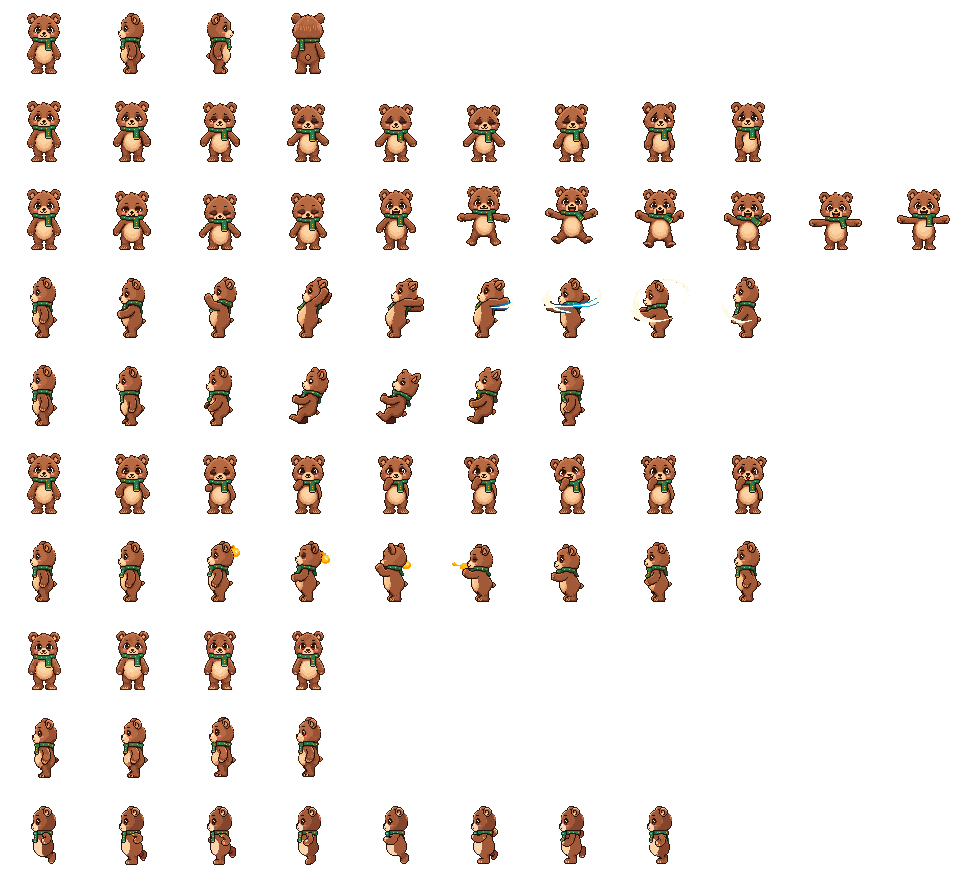
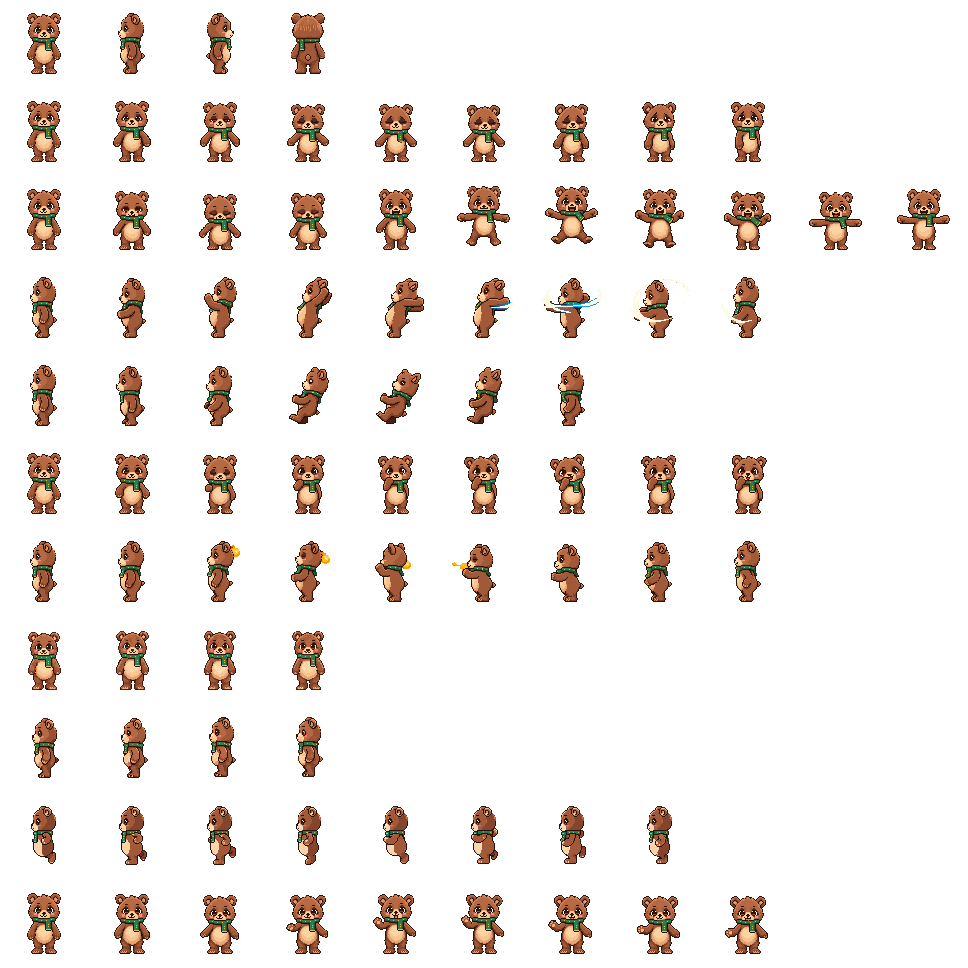
feat(design): PixelLab teaching animation and mouth shapes for the talking bear

diff --git a/mobile/scripts/tutor-sprites.ts b/mobile/scripts/tutor-sprites.ts
@@ -1,0 +1,127 @@
+/**
+ * Баавгайтай ярилцах дэлгэцийн (tutor) баавгай: урагшаа харсан frame-ууд (bear_tutor.png, grid) + амны хэлбэр
+ * (bear_mouth.png: хагас, нээлттэй) + metadata (mobile/src/lib/pixelBear/bear-tutor.json).
+ *
+ * Баавгай: PixelLab (docs/design/pixel-bear/pixellab/bear.png): idle, think (сонсох), teach (багш шиг сарвуугаа
+ * өргөж тайлбарлана). teach-ийн бүх frame-д амыг хааж (PixelLab зарим frame-д амыг нээсэн байдаг), frame бүрт амны
+ * байрлалыг JSON-д бичнэ: апп дуу тоглуулж байх үед түүний чанга байдлаар хагас/нээлттэй амыг дээр нь давхарлана.
+ *
+ * Ажиллуулах:  npm run sprites:tutor && npm run sprites   (mobile/)
+ * Шалгах:      node scripts/tutor-sprites.ts --preview <dir>
+ */
+import { writeFileSync } from 'node:fs';
+import { blank, type Img, writeApng, writePng } from './png.ts';
+import { at, bbox, clone, contact, crop, type Frame, hex, type P, pixellab, SPRITES, scale, tagOf, toSheet, trim } from './sprite-kit.ts';
+
+const META = new URL('../src/lib/pixelBear/bear-tutor.json', import.meta.url);
+const COLS = 7;
+
+const bear = pixellab('bear');
+const teach = bear.frames('teach', 'south');
+const ref = teach[0];
+
+// teach-ийн эхний (хаалттай амтай) frame-ийн нүүр: нүд (тааруулах хэсэг), ам (хуулах хэсэг), амны төв
+const EYES = [33, 24, 56, 32] as const; // x0, y0, x1, y1
+const MUZZLE = [39, 34, 48, 39] as const; // хамрын доод захаас хүзүүний зураас хүртэл
+const MOUTH: P = [43, 35]; // амны зураасны дээд төв
+
+/** Толгой бага зэрэг дохиж хөдөлдөг: нүдний хэсгийг `ref`-тэй хамгийн ойр тааруулах шилжилт */
+function faceOffset(img: Img): P {
+  let best: P = [0, 0];
+  let bestCost = Infinity;
+  for (let dy = -3; dy <= 3; dy++)
+    for (let dx = -3; dx <= 3; dx++) {
+      let cost = 0;
+      for (let y = EYES[1]; y < EYES[3]; y++)
+        for (let x = EYES[0]; x < EYES[2]; x++) {
+          const i = at(ref, x, y);
+          const j = at(img, x + dx, y + dy);
+          for (let c = 0; c < 4; c++) cost += Math.abs(ref.d[i + c] - img.d[j + c]);
+        }
+      if (cost < bestCost) [best, bestCost] = [[dx, dy], cost];
+    }
+  return best;
+}
+
+/** `ref`-ийн хаалттай амыг нүүрний шилжилтээр нь буулгана */
+function closeMouth(img: Img, [dx, dy]: P): Img {
+  const o = clone(img);
+  const patch = crop(ref, MUZZLE[0], MUZZLE[1], MUZZLE[2] - MUZZLE[0], MUZZLE[3] - MUZZLE[1]);
+  for (let y = 0; y < patch.h; y++)
+    for (let x = 0; x < patch.w; x++) o.d.set(patch.d.subarray(at(patch, x, y), at(patch, x, y) + 4), at(o, MUZZLE[0] + dx + x, MUZZLE[1] + dy + y));
+  return o;
+}
+
+const all: (Frame & { mouth?: P })[] = [];
+bear.frames('idle', 'south').forEach((img, i) => all.push({ name: `idle${i}`, duration: 220, img }));
+bear.frames('think', 'south').forEach((img, i) => all.push({ name: `think${i}`, duration: 150, img })); // сонсох
+teach.forEach((img, i) => {
+  const off = faceOffset(img);
+  all.push({ name: `teach${i}`, duration: 150, img: closeMouth(img, off), mouth: [MOUTH[0] + off[0], MOUTH[1] + off[1]] });
+});
+const { frames, dx, dy } = trim(all);
+const [bx0, , bx1, by1] = bbox([bear.rotation('south')]);
+
+// амны хэлбэр (5×4, амны зураасны дээд төвөөс): хагас нээлттэй, нээлттэй (хэл харагдана)
+const SHAPES = [
+  ['.ooo.', 'orrro', '.ooo.', '.....'],
+  ['.ooo.', 'orrro', 'ortto', '.ooo.'],
+];
+const INK = { o: hex('#2a140a'), r: hex('#6b1f1f'), t: hex('#fc7b6a') } as const;
+const mouth = blank(5 * SHAPES.length, 4);
+SHAPES.forEach((rows, k) =>
+  rows.forEach((row, y) =>
+    [...row].forEach((ch, x) => {
+      if (ch !== '.') mouth.d.set([...INK[ch as keyof typeof INK], 255], at(mouth, k * 5 + x, y));
+    }),
+  ),
+);
+const MOUTH_ORIGIN = 2; // хэлбэрийн төвийн багана
+
+const tag = tagOf(frames);
+const tags = {
+  idle: tag('idle0', 'idle3', 'pingpong'),
+  listen: tag('think0', 'think8', 'pingpong'),
+  teachIn: tag('teach0', 'teach2'),
+  teach: tag('teach3', 'teach8', 'pingpong'),
+};
+const sheet = toSheet(frames, COLS);
+
+const preview = process.argv.indexOf('--preview');
+if (preview < 0) {
+  writePng(new URL('bear_tutor.png', SPRITES), sheet);
+  writePng(new URL('bear_mouth.png', SPRITES), mouth);
+  const meta = {
+    sheet: 'bear_tutor',
+    frameSize: { w: frames[0].img.w, h: frames[0].img.h },
+    columns: COLS,
+    feet: by1 - dy,
+    pivot: (bx0 + bx1) / 2 - dx,
+    mouth: { w: 5, h: 4, origin: MOUTH_ORIGIN, shapes: SHAPES.length },
+    frames: all.map(({ name, duration, mouth: m }) => ({ name, duration, ...(m ? { mouth: [m[0] - dx, m[1] - dy] } : {}) })),
+    tags,
+  };
+  writeFileSync(META, `${JSON.stringify(meta, null, 2)}\n`);
+  console.log(`bear_tutor: ${frames.length} frame ${frames[0].img.w}×${frames[0].img.h}, ${Object.keys(tags).length} tag`);
+} else {
+  // ярьж буй мэт: teach давталт дээр ам 0 → 1 → 2 → 1 ээлжилнэ (апп-д энэ нь дууны чанга байдлаар явна)
+  const dir = `${process.argv[preview + 1]}/`;
+  writePng(`${dir}tutor_contact.png`, contact(sheet));
+  const ids = [...Array(3).keys(), ...[3, 4, 5, 6, 7, 8, 7, 6, 5, 4, 3, 4, 5, 6, 7, 8]].map((i) => 13 + i);
+  const levels = [0, 1, 2, 1, 2, 2, 1, 0, 1, 2, 1, 0, 0, 1, 2, 1, 2, 1, 0];
+  const shots = ids.map((id, n) => {
+    const f = frames[id];
+    const img = clone(f.img);
+    const level = levels[n % levels.length];
+    const m = all[id].mouth;
+    if (m && level)
+      for (let y = 0; y < 4; y++)
+        for (let x = 0; x < 5; x++) {
+          const i = at(mouth, (level - 1) * 5 + x, y);
+          if (mouth.d[i + 3]) img.d.set(mouth.d.subarray(i, i + 4), at(img, m[0] - dx - MOUTH_ORIGIN + x, m[1] - dy + y));
+        }
+    return scale(img, 4);
+  });
+  writeApng(`${dir}tutor_teach.png`, shots, shots.map(() => 120));
+  console.log(`preview: ${dir}`);
+}

diff --git a/mobile/scripts/build-sprites.ts b/mobile/scripts/build-sprites.ts
@@ -42,6 +42,8 @@ for (const n of ['map_boss_1', 'map_boss_2']) M[`${n}_white`] = [4];
 M.fx_scythe = [4];
 // хичээлийн дэлгэц (scripts/lesson-sprites.ts): дэвсгэр ба баавгай 3×
 for (const n of ['bear_lesson', 'lesson_bg', 'lesson_shadow']) M[n] = [3];
+// баавгайтай ярилцах дэлгэц (scripts/tutor-sprites.ts): баавгай ба амны хэлбэр 4×
+for (const n of ['bear_tutor', 'bear_mouth']) M[n] = [4];
 // v2 (Charlie маягийн) nav icon ба Нүүрний товчнууд: 20px эх, 30dp-ээр (1.5×) — нарийн pixel
 for (const n of ['home', 'tasks', 'path', 'shop', 'crew', 'bag']) {
   M[`nav2_${n}_on`] = [[30, 30]];
